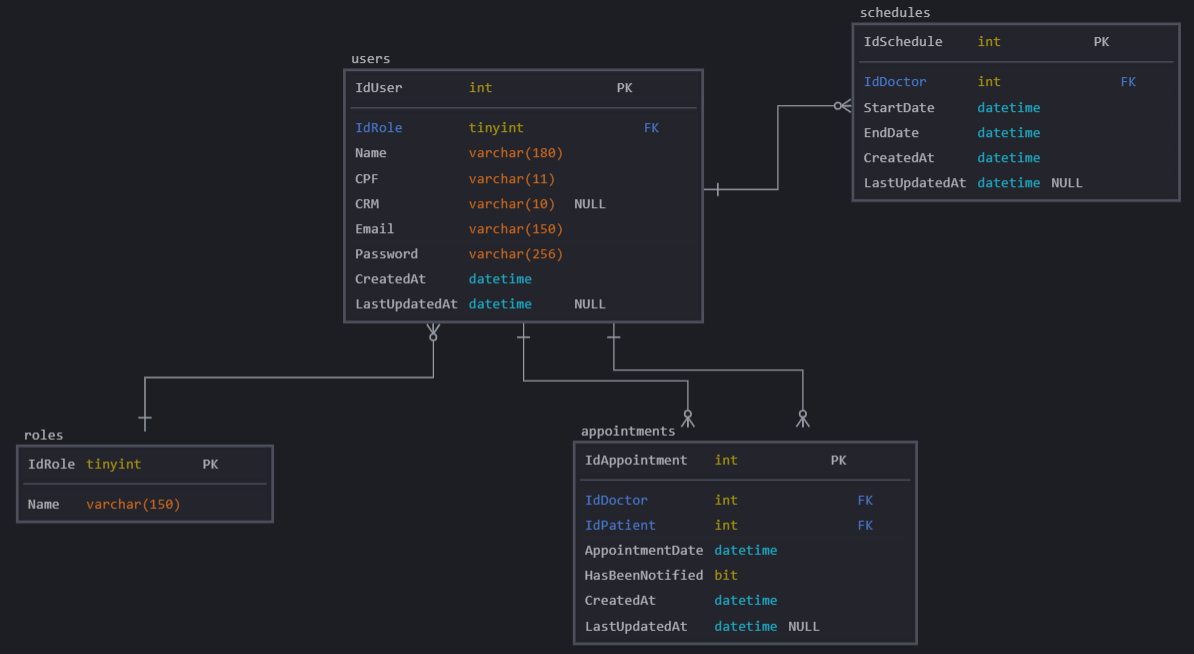
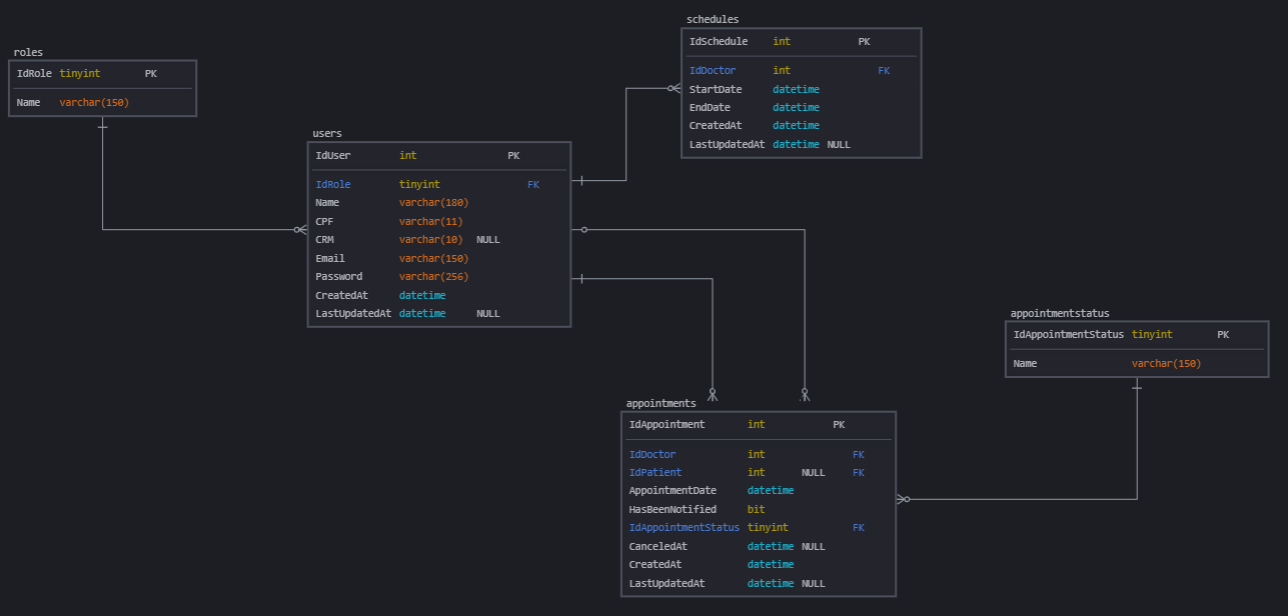
feat(appointment): ajustes de modelagem de Appointment e AppointmentStatus

diff --git a/src/HealthMed.Persistence/Migrations/20240730215852_Add_AppointmentStatus_Entity.cs b/src/HealthMed.Persistence/Migrations/20240730215852_Add_AppointmentStatus_Entity.cs
@@ -1,0 +1,105 @@
+using System;
+using Microsoft.EntityFrameworkCore.Migrations;
+
+#nullable disable
+
+#pragma warning disable CA1814 // Prefer jagged arrays over multidimensional
+
+namespace HealthMed.Persistence.Migrations
+{
+    /// <inheritdoc />
+    public partial class Add_AppointmentStatus_Entity : Migration
+    {
+        /// <inheritdoc />
+        protected override void Up(MigrationBuilder migrationBuilder)
+        {
+            migrationBuilder.AlterColumn<int>(
+                name: "IdPatient",
+                table: "appointments",
+                type: "int",
+                nullable: true,
+                oldClrType: typeof(int),
+                oldType: "int");
+
+            migrationBuilder.AddColumn<DateTime>(
+                name: "CanceledAt",
+                table: "appointments",
+                type: "datetime2",
+                nullable: true);
+
+            migrationBuilder.AddColumn<byte>(
+                name: "IdAppointmentStatus",
+                table: "appointments",
+                type: "tinyint",
+                nullable: false,
+                defaultValue: (byte)0);
+
+            migrationBuilder.CreateTable(
+                name: "appointmentstatus",
+                columns: table => new
+                {
+                    IdAppointmentStatus = table.Column<byte>(type: "tinyint", nullable: false),
+                    Name = table.Column<string>(type: "nvarchar(150)", maxLength: 150, nullable: false)
+                },
+                constraints: table =>
+                {
+                    table.PrimaryKey("PK_appointmentstatus", x => x.IdAppointmentStatus);
+                });
+
+            migrationBuilder.InsertData(
+                table: "appointmentstatus",
+                columns: new[] { "IdAppointmentStatus", "Name" },
+                values: new object[,]
+                {
+                    { (byte)1, "Disponível" },
+                    { (byte)2, "Ocupado" },
+                    { (byte)3, "Cancelado" }
+                });
+
+            migrationBuilder.CreateIndex(
+                name: "IX_appointments_IdAppointmentStatus",
+                table: "appointments",
+                column: "IdAppointmentStatus");
+
+            migrationBuilder.AddForeignKey(
+                name: "FK_appointments_appointmentstatus_IdAppointmentStatus",
+                table: "appointments",
+                column: "IdAppointmentStatus",
+                principalTable: "appointmentstatus",
+                principalColumn: "IdAppointmentStatus");
+        }
+
+        /// <inheritdoc />
+        protected override void Down(MigrationBuilder migrationBuilder)
+        {
+            migrationBuilder.DropForeignKey(
+                name: "FK_appointments_appointmentstatus_IdAppointmentStatus",
+                table: "appointments");
+
+            migrationBuilder.DropTable(
+                name: "appointmentstatus");
+
+            migrationBuilder.DropIndex(
+                name: "IX_appointments_IdAppointmentStatus",
+                table: "appointments");
+
+            migrationBuilder.DropColumn(
+                name: "CanceledAt",
+                table: "appointments");
+
+            migrationBuilder.DropColumn(
+                name: "IdAppointmentStatus",
+                table: "appointments");
+
+            migrationBuilder.AlterColumn<int>(
+                name: "IdPatient",
+                table: "appointments",
+                type: "int",
+                nullable: false,
+                defaultValue: 0,
+                oldClrType: typeof(int),
+                oldType: "int",
+                oldNullable: true);
+        }
+    }
+}

diff --git a/src/HealthMed.Domain/Entities/Appointment.cs b/src/HealthMed.Domain/Entities/Appointment.cs
@@ -2,6 +2,7 @@ using System;
 using HealthMed.Domain.Core.Abstractions;
 using HealthMed.Domain.Core.Primitives;
 using HealthMed.Domain.Core.Utility;
+using Enums = HealthMed.Domain.Enumerations;
 
 namespace HealthMed.Domain.Entities
 {
@@ -10,9 +11,13 @@ namespace HealthMed.Domain.Entities
         #region Properties
 
         public int IdDoctor { get; private set; }
-        public int IdPatient { get; private set; }
+        public int? IdPatient { get; private set; }
+
         public DateTime AppointmentDate { get; private set; }
         public bool HasBeenNotified { get; private set; }
+
+        public byte IdAppointmentStatus { get; private set; }
+        public DateTime? CanceledAt { get; private set; }
 
         public DateTime CreatedAt { get; private set; }
         public DateTime? LastUpdatedAt { get; private set; }
@@ -24,16 +29,14 @@ namespace HealthMed.Domain.Entities
         private Appointment()
         { }
 
-        public Appointment(int idDoctor, int idPatient, DateTime appointmentDate, bool hasBeenNotified = false)
+        public Appointment(int idDoctor, DateTime appointmentDate)
         {
             Ensure.GreaterThan(idDoctor, 0, "The IdDoctor must be greater than zero.", nameof(idDoctor));
-            Ensure.GreaterThan(idPatient, 0, "The IdPatient must be greater than zero.", nameof(idPatient));
             Ensure.GreaterThan(appointmentDate, DateTime.MinValue, $"The AppointmentDate must be greater than {DateTime.MinValue:dd/MM/yyyy}.", nameof(appointmentDate));
 
             IdDoctor = idDoctor;
-            IdPatient = idPatient;
             AppointmentDate = appointmentDate;
-            HasBeenNotified = hasBeenNotified;
+            IdAppointmentStatus = (byte)Enums.AppointmentStatus.Available;
         }
 
         #endregion

diff --git a/src/HealthMed.Persistence/Configurations/AppointmentConfiguration.cs b/src/HealthMed.Persistence/Configurations/AppointmentConfiguration.cs
@@ -13,9 +13,11 @@ namespace HealthMed.Persistence.Configurations
             builder.HasKey(p => p.Id);
             builder.Property(p => p.Id).HasColumnName("IdAppointment").IsRequired();
             builder.Property(p => p.IdDoctor).IsRequired();
-            builder.Property(p => p.IdPatient).IsRequired();
+            builder.Property(p => p.IdPatient).IsConcurrencyToken();
             builder.Property(p => p.AppointmentDate).IsRequired();
             builder.Property(p => p.HasBeenNotified).IsRequired();
+            builder.Property(p => p.IdAppointmentStatus).IsRequired();
+            builder.Property(p => p.CanceledAt);
             builder.Property(p => p.CreatedAt).IsRequired();
             builder.Property(p => p.LastUpdatedAt);
 
@@ -26,6 +28,10 @@ namespace HealthMed.Persistence.Configurations
             builder.HasOne<User>()
                 .WithMany()
                 .HasForeignKey(p => p.IdPatient).OnDelete(DeleteBehavior.NoAction);
+
+            builder.HasOne<AppointmentStatus>()
+                .WithMany()
+                .HasForeignKey(p => p.IdAppointmentStatus).OnDelete(DeleteBehavior.NoAction);
         }
     }
 }

diff --git a/src/HealthMed.Persistence/Migrations/20240730215852_Add_AppointmentStatus_Entity.Designer.cs b/src/HealthMed.Persistence/Migrations/20240730215852_Add_AppointmentStatus_Entity.Designer.cs
@@ -4,6 +4,7 @@ using HealthMed.Persistence;
 using Microsoft.EntityFrameworkCore;
 using Microsoft.EntityFrameworkCore.Infrastructure;
 using Microsoft.EntityFrameworkCore.Metadata;
+using Microsoft.EntityFrameworkCore.Migrations;
 using Microsoft.EntityFrameworkCore.Storage.ValueConversion;
 
 #nullable disable
@@ -11,9 +12,11 @@ using Microsoft.EntityFrameworkCore.Storage.ValueConversion;
 namespace HealthMed.Persistence.Migrations
 {
     [DbContext(typeof(EFContext))]
-    partial class EFContextModelSnapshot : ModelSnapshot
+    [Migration("20240730215852_Add_AppointmentStatus_Entity")]
+    partial class Add_AppointmentStatus_Entity
     {
-        protected override void BuildModel(ModelBuilder modelBuilder)
+        /// <inheritdoc />
+        protected override void BuildTargetModel(ModelBuilder modelBuilder)
         {
 #pragma warning disable 612, 618
             modelBuilder

diff --git a/src/HealthMed.Domain/Entities/AppointmentStatus.cs b/src/HealthMed.Domain/Entities/AppointmentStatus.cs
@@ -1,0 +1,30 @@
+using HealthMed.Domain.Core.Primitives;
+using HealthMed.Domain.Core.Utility;
+
+namespace HealthMed.Domain.Entities
+{
+    public sealed class AppointmentStatus : Entity<byte>
+    {
+        #region Properties
+
+        public string Name { get; private set; }
+
+        #endregion
+
+        #region Constructors
+
+        private AppointmentStatus()
+        { }
+
+        public AppointmentStatus(byte idAppointmentStatus, string name)
+            : base(idAppointmentStatus)
+        {
+            Ensure.GreaterThan(idAppointmentStatus, 0, "The IdAppointmentStatus must be greater than zero.", nameof(idAppointmentStatus));
+            Ensure.NotEmpty(name, "The name is required.", nameof(name));
+
+            Name = name;
+        }
+
+        #endregion
+    }
+}

diff --git a/src/HealthMed.Persistence/Seeds/AppointmentStatusSeed.cs b/src/HealthMed.Persistence/Seeds/AppointmentStatusSeed.cs
@@ -1,0 +1,18 @@
+using System;
+using System.Collections.Generic;
+using HealthMed.Domain.Entities;
+using HealthMed.Persistence.Core.Primitives;
+using Enums = HealthMed.Domain.Enumerations;
+
+namespace HealthMed.Persistence.Seeds
+{
+    internal sealed class AppointmentStatusSeed : EntitySeedConfiguration<AppointmentStatus, byte>
+    {
+        public override IEnumerable<object> Seed()
+        {
+            yield return new { Id = (byte)Enums.AppointmentStatus.Available,    Name = "Disponível" };
+            yield return new { Id = (byte)Enums.AppointmentStatus.Busy,         Name = "Ocupado" };
+            yield return new { Id = (byte)Enums.AppointmentStatus.Canceled,     Name = "Cancelado" };
+        }
+    }
+}

diff --git a/src/HealthMed.Persistence/Configurations/AppointmentStatusConfiguration.cs b/src/HealthMed.Persistence/Configurations/AppointmentStatusConfiguration.cs
@@ -1,0 +1,19 @@
+using Microsoft.EntityFrameworkCore;
+using Microsoft.EntityFrameworkCore.Metadata.Builders;
+using HealthMed.Domain.Entities;
+
+namespace HealthMed.Persistence.Configurations
+{
+    internal sealed class AppointmentStatusConfiguration : IEntityTypeConfiguration<AppointmentStatus>
+    {
+        public void Configure(EntityTypeBuilder<AppointmentStatus> builder)
+        {
+            builder.ToTable("appointmentstatus");
+
+            builder.HasKey(p => p.Id);
+
+            builder.Property(p => p.Id).HasColumnName("IdAppointmentStatus").ValueGeneratedNever();
+            builder.Property(p => p.Name).HasMaxLength(150).IsRequired();
+        }
+    }
+}

diff --git a/src/HealthMed.Infrastructure/Cryptography/PasswordHasher.cs b/src/HealthMed.Infrastructure/Cryptography/PasswordHasher.cs
@@ -23,7 +23,9 @@ namespace HealthMed.Infrastructure.Cryptography
         /// </summary>
         public PasswordHasher()
         {
+#pragma warning disable SYSLIB0023 // Type or member is obsolete
             _rng = new RNGCryptoServiceProvider();
+#pragma warning restore SYSLIB0023 // Type or member is obsolete
         }
 
         /// <inheritdoc />

diff --git a/src/HealthMed.Application/Contracts/Schedule/DetailedScheduleResponse.cs b/src/HealthMed.Application/Contracts/Schedule/DetailedScheduleResponse.cs
@@ -8,6 +8,6 @@ namespace HealthMed.Application.Contracts.Schedule
         public int Id { get; set; }
         public DateTime StartDate { get; set; }
         public DateTime EndDate { get; set; }
-        public UserResponse? Doctor { get; set; }
+        public UserResponse Doctor { get; set; }
     }
 }

diff --git a/src/HealthMed.Domain/Enumerations/AppointmentStatus.cs b/src/HealthMed.Domain/Enumerations/AppointmentStatus.cs
@@ -1,0 +1,9 @@
+namespace HealthMed.Domain.Enumerations
+{
+    public enum AppointmentStatus : byte
+    {
+        Available = 1,
+        Busy = 2,
+        Canceled = 3
+    }
+}

diff --git a/README.md b/README.md
@@ -61,11 +61,12 @@ entendimento da modelagem de dados apresentamos a seguir o MER e suas respectiva
 
 Com base na imagem acima iremos detalhar as tabelas e os dados contidos em cada uma delas:
 
-| Schema | Tabela       | Descrição                                                                                       |
-|--------|--------------|-------------------------------------------------------------------------------------------------|
-| dbo    | users        | Tabela que contém os dados referentes aos usuários (médicos e pacientes da plataforma.          |
-| dbo    | roles        | Tabela que contém os dados referentes aos tipos de perfis de usuário da plataforma.             |
-| dbo    | schedules    | Tabela que contém os dados referentes aos horários de atendimento dos médicos.                  |
-| dbo    | appointments | Tabela que contém os dados referentes as consultas agendadas.                                   |
+| Schema | Tabela            | Descrição                                                                                      |
+|--------|-------------------|------------------------------------------------------------------------------------------------|
+| dbo    | users             | Tabela que contém os dados referentes aos usuários (médicos e pacientes da plataforma.         |
+| dbo    | roles             | Tabela que contém os dados referentes aos tipos de perfis de usuário da plataforma.            |
+| dbo    | schedules         | Tabela que contém os dados referentes aos horários de atendimento dos médicos.                 |
+| dbo    | appointments      | Tabela que contém os dados referentes aos horários de agendamento de consultas.                |
+| dbo    | appointmentstatus | Tabela que contém os dados referentes aos status de agendamentos.                              |
 
 
